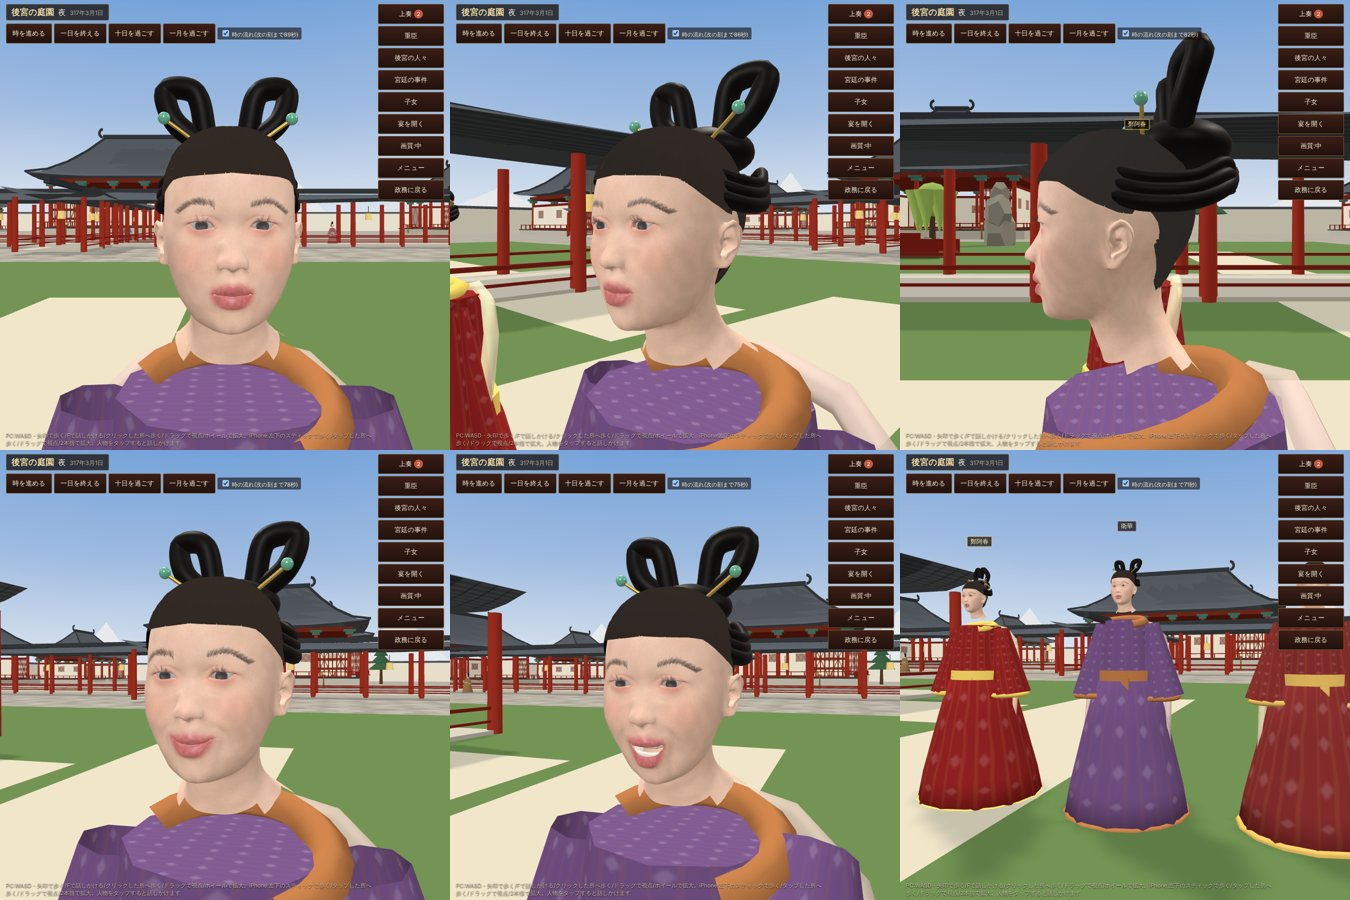
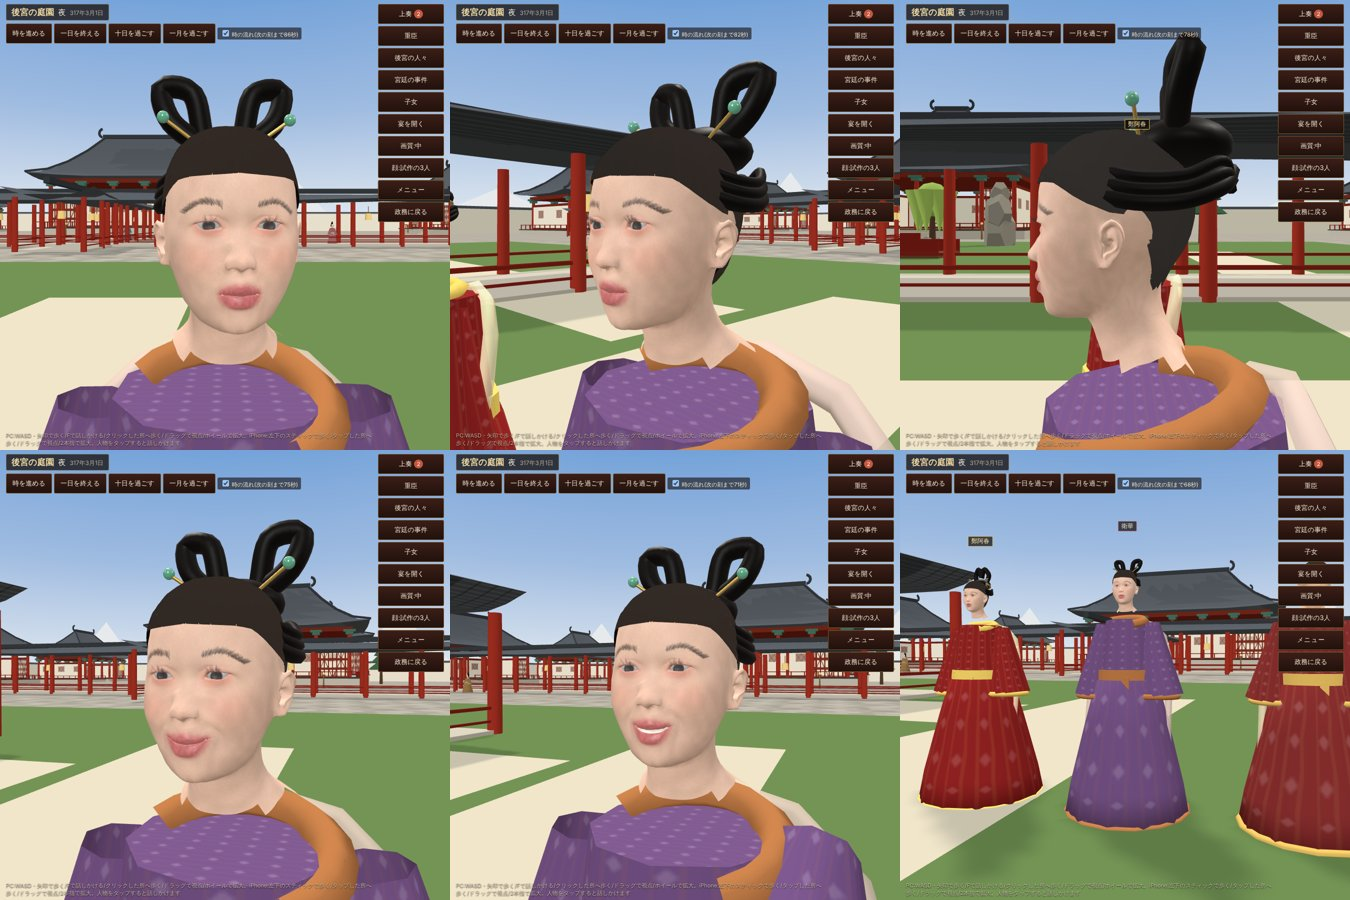
Version 54 第3・4工程: 顔の切り替え(試作の3人・全員・従来)、会話のカメラ、資源の片づけ、性能の調整、試験40
- 画面の「顔」ボタン:写実の顔を付ける人を選ぶ(既定は試作の3人。全員への展開は品質の確認を待つ)
- 会話のカメラを時間で寄せる。周りの光(RoomEnvironment・PMREM)の片づけの漏れを修正
- 結い髪の筒の分割を減らす(1人 約2万→1.6万三角形)。低画質は写実の頭を1人まで
- 試験40(写実の頭 H1〜H11)を追加

Claude-Session: https://claude.ai/code/session_01GQm4HLswWyvv6oRhdL2azF

diff --git a/game/src/palace/PalaceScreen.ts b/game/src/palace/PalaceScreen.ts
@@ -129,7 +129,10 @@ export class PalaceScreen {
     this.buildStick(labelRoot);
     // 写実寄りの頭(Version 54):金属・肌の見え方のための周りの光と、頭の素の読み込み
     const pm = new THREE.PMREMGenerator(renderer);
-    this.envTex = pm.fromScene(new RoomEnvironment(), 0.04).texture;
+    const room = new RoomEnvironment();
+    this.envRT = pm.fromScene(room, 0.04);
+    this.envTex = this.envRT.texture;
+    room.dispose();
     pm.dispose();
     this.scene.environment = this.envTex;
     this.scene.environmentIntensity = 0.45;
@@ -137,8 +140,10 @@ export class PalaceScreen {
   }
 
   private envTex: THREE.Texture;
+  private envRT: THREE.WebGLRenderTarget;
   private closed = false;
   private kit: HeadKit | null = null;
+  private headsAt = 1;
   /** 写実の頭を付ける人:"proto" = 試作の3人(皇后・妃・女官を1人ずつ)、"all" = 後宮の全員 */
   realHeads: "proto" | "all" | "off" = "proto";
   private protoIds(): Set<string> {
@@ -153,7 +158,7 @@ export class PalaceScreen {
   private updateHeads(): void {
     const kit = this.kit;
     if (!kit) return;
-    const lim = this.quality === "low" ? { n: 2, d: 5 } : this.quality === "mid" ? { n: 4, d: 8 } : { n: 7, d: 12 };
+    const lim = this.quality === "low" ? { n: 1, d: 4 } : this.quality === "mid" ? { n: 4, d: 8 } : { n: 7, d: 12 };
     const allow = this.realHeads === "all" ? null : this.realHeads === "proto" ? this.protoIds() : new Set<string>();
     const cand = [...this.views.values()]
       .filter((v) => (allow ? allow.has(v.npc.id) : true))
@@ -723,7 +728,11 @@ export class PalaceScreen {
         nearest = v.npc.id;
       }
     }
-    if (this.tick % 10 === 0) this.updateHeads();
+    this.headsAt += dt;
+    if (this.headsAt > 0.3) {
+      this.headsAt = 0;
+      this.updateHeads();
+    }
     this.npcMs = this.npcMs * 0.9 + (performance.now() - t0) * 0.1;
     if (nearest !== this.near) {
       this.near = nearest;
@@ -776,11 +785,13 @@ export class PalaceScreen {
       const l = Math.hypot(dx, dz) || 1;
       const side = 0.35;
       const want = new THREE.Vector3(face.x + (dx / l) * 1.3 + (-dz / l) * side, face.y + 0.04, face.z + (dz / l) * 1.3 + (dx / l) * side);
-      this.talkCam.lerp(want, this.talkBlend < 0.01 ? 1 : 0.12);
-      this.talkBlend = Math.min(1, this.talkBlend + 0.06);
+      // 時間で寄る(コマの遅い端末でも、約1秒で寄りきる)
+      const kk = 1 - Math.exp(-dt * 6);
+      this.talkCam.lerp(want, this.talkBlend < 0.01 ? 1 : kk);
+      this.talkBlend = Math.min(1, this.talkBlend + dt * 1.6);
       this.camera.position.set(cx, cy, cz).lerp(this.talkCam, this.talkBlend);
       // 顔が画面の上の方に来るよう、少し下を見る(下の交流の欄に顔が隠れないように)
-      this.talkLook.lerp(face.clone().setY(face.y - 0.32), this.talkBlend < 0.07 ? 1 : 0.15);
+      this.talkLook.lerp(face.clone().setY(face.y - 0.32), this.talkBlend < 0.07 ? 1 : kk);
       this.camera.lookAt(new THREE.Vector3(this.pos.x, floor + 1.4, this.pos.z).lerp(this.talkLook, this.talkBlend));
     } else {
       this.talkBlend = 0;
@@ -857,7 +868,7 @@ export class PalaceScreen {
       for (const v of Object.values(m) as unknown[]) if (v instanceof THREE.Texture) v.dispose();
       m.dispose();
     }
-    this.envTex.dispose();
+    this.envRT.dispose();
     this.scene.environment = null;
     this.sun.shadow.map?.dispose();
     this.sun.dispose();

diff --git a/game/src/ui/PalaceHud.ts b/game/src/ui/PalaceHud.ts
@@ -25,6 +25,9 @@ export interface PalaceHudDeps {
   /** 画質(低・中・高) */
   quality(): "low" | "mid" | "high";
   setQuality(q: "low" | "mid" | "high"): void;
+  /** 写実の顔を付ける人(Version 54) */
+  faces(): "proto" | "all" | "off";
+  setFaces(f: "proto" | "all" | "off"): void;
 }
 
 /** 架空の女官の似顔(衣の色と髪の形から作る絵。写実ではない) */
@@ -69,7 +72,7 @@ export class PalaceHud {
         <div class="ph-time"><button type="button" data-t="1">時を進める</button><button type="button" data-t="day">一日を終える</button><button type="button" data-t="10">十日を過ごす</button><button type="button" data-t="30">一月を過ごす</button>
         <label class="ph-auto"><input type="checkbox" checked /> 時の流れ(<span class="ph-auto-left"></span>)</label></div></div>
       <div class="ph-side"><button type="button" data-s="reports">上奏<i class="ph-badge" hidden></i></button><button type="button" data-s="ministers">重臣</button><button type="button" data-s="roster">後宮の人々</button><button type="button" data-s="incidents">宮廷の事件<i class="ph-badge ph-inc-badge" hidden></i></button>
-        <button type="button" data-s="children">子女</button><button type="button" data-s="banquet">宴を開く</button><button type="button" class="ph-quality">画質</button><button type="button" class="menu-open ph-menu">メニュー</button><button type="button" data-s="exit" class="ph-exit">政務に戻る</button></div>
+        <button type="button" data-s="children">子女</button><button type="button" data-s="banquet">宴を開く</button><button type="button" class="ph-quality">画質</button><button type="button" class="ph-faces">顔</button><button type="button" class="menu-open ph-menu">メニュー</button><button type="button" data-s="exit" class="ph-exit">政務に戻る</button></div>
       <button type="button" class="ph-near" hidden></button>
       <p class="ph-hint">PC:WASD・矢印で歩く/Fで話しかける/クリックした所へ歩く/ドラッグで視点/ホイールで拡大。iPhone:左下のスティックで歩く/タップした所へ歩く/ドラッグで視点/2本指で拡大。人物をタップすると話しかけます</p>
       <section class="ph-panel" hidden></section>
@@ -87,6 +90,16 @@ export class PalaceHud {
       const order = ["low", "mid", "high"] as const;
       const next = order[(order.indexOf(this.d.quality()) + 1) % 3];
       this.d.setQuality(next);
+    });
+    const fb = this.q(".ph-faces");
+    const fl = { proto: "試作の3人", all: "全員", off: "従来" } as const;
+    const showF = (): void => void (fb.textContent = `顔:${fl[this.d.faces()]}`);
+    showF();
+    fb.title = "写実寄りの3Dの顔を付ける人(試作の3人・全員・従来の簡単な顔)";
+    fb.addEventListener("click", () => {
+      const order = ["proto", "all", "off"] as const;
+      this.d.setFaces(order[(order.indexOf(this.d.faces()) + 1) % 3]);
+      showF();
     });
   }
 

diff --git a/game/src/core/Game.ts b/game/src/core/Game.ts
@@ -1711,16 +1711,37 @@ export class Game {
       talking: (id) => this.palaceScreen?.setTalking(id),
       quality: () => this.palaceQuality(),
       setQuality: (q) => this.setPalaceQuality(q),
+      faces: () => this.palaceFaces(),
+      setFaces: (f) => {
+        try {
+          localStorage.setItem("goko-palace-faces", f);
+        } catch {
+          // 保存できなくても、いまの画面には使う
+        }
+        if (this.palaceScreen) this.palaceScreen.realHeads = f;
+      },
     });
     this.palaceScreen = new PalaceScreen(this.renderer, canvas, hudEl, P, {
       onPickNpc: (id) => { this.palaceHud?.openNpc(id); this.palaceScreen?.setTalking(id); },
       onArea: (a) => this.palaceHud?.setArea(AREA_LABEL[a]),
       onNear: (id) => this.palaceHud?.setNear(id),
     }, this.palaceQuality());
+    this.palaceScreen.realHeads = this.palaceFaces();
     this.palaceScreen.resize(this.width, this.height);
     this.palaceHud.setArea(this.palaceScreen.areaLabel);
     this.palaceHud.refresh();
     this.lastFrame = performance.now();
+  }
+
+  /** 写実の顔を付ける人(端末ごとに覚える。既定は試作の3人) */
+  palaceFaces(): "proto" | "all" | "off" {
+    try {
+      const v = localStorage.getItem("goko-palace-faces");
+      if (v === "proto" || v === "all" || v === "off") return v;
+    } catch {
+      // 読めなければ既定の値
+    }
+    return "proto";
   }
 
   /** 宮殿の画質(端末ごとに覚える。無ければ、タッチの端末は低、ほかは中) */

diff --git a/game/src/palace/RealHead.ts b/game/src/palace/RealHead.ts
@@ -202,7 +202,7 @@ export class RealHead {
     const eyeY = K.landmarks.eyeL[1];
     const tube = (pts: number[][], r: number, closed = false, mat: THREE.Material = K.hairTubeMat): THREE.Mesh => {
       const c = new THREE.CatmullRomCurve3(pts.map((p) => new THREE.Vector3(p[0], p[1], p[2])), closed, "centripetal");
-      const g = new THREE.TubeGeometry(c, 40, r, 10, closed);
+      const g = new THREE.TubeGeometry(c, r > 0.005 ? 22 : 8, r, r > 0.005 ? 7 : 4, closed);
       this.owned.push(g);
       const m = new THREE.Mesh(g, mat);
       m.castShadow = true;
@@ -210,7 +210,7 @@ export class RealHead {
       return m;
     };
     const ball = (x: number, y: number, z: number, sx: number, sy: number, sz: number, mat: THREE.Material = K.hairTubeMat): THREE.Mesh => {
-      const g = new THREE.SphereGeometry(1, 20, 14);
+      const g = new THREE.SphereGeometry(1, 14, 10);
       this.owned.push(g);
       const m = new THREE.Mesh(g, mat);
       m.position.set(x, y, z);
